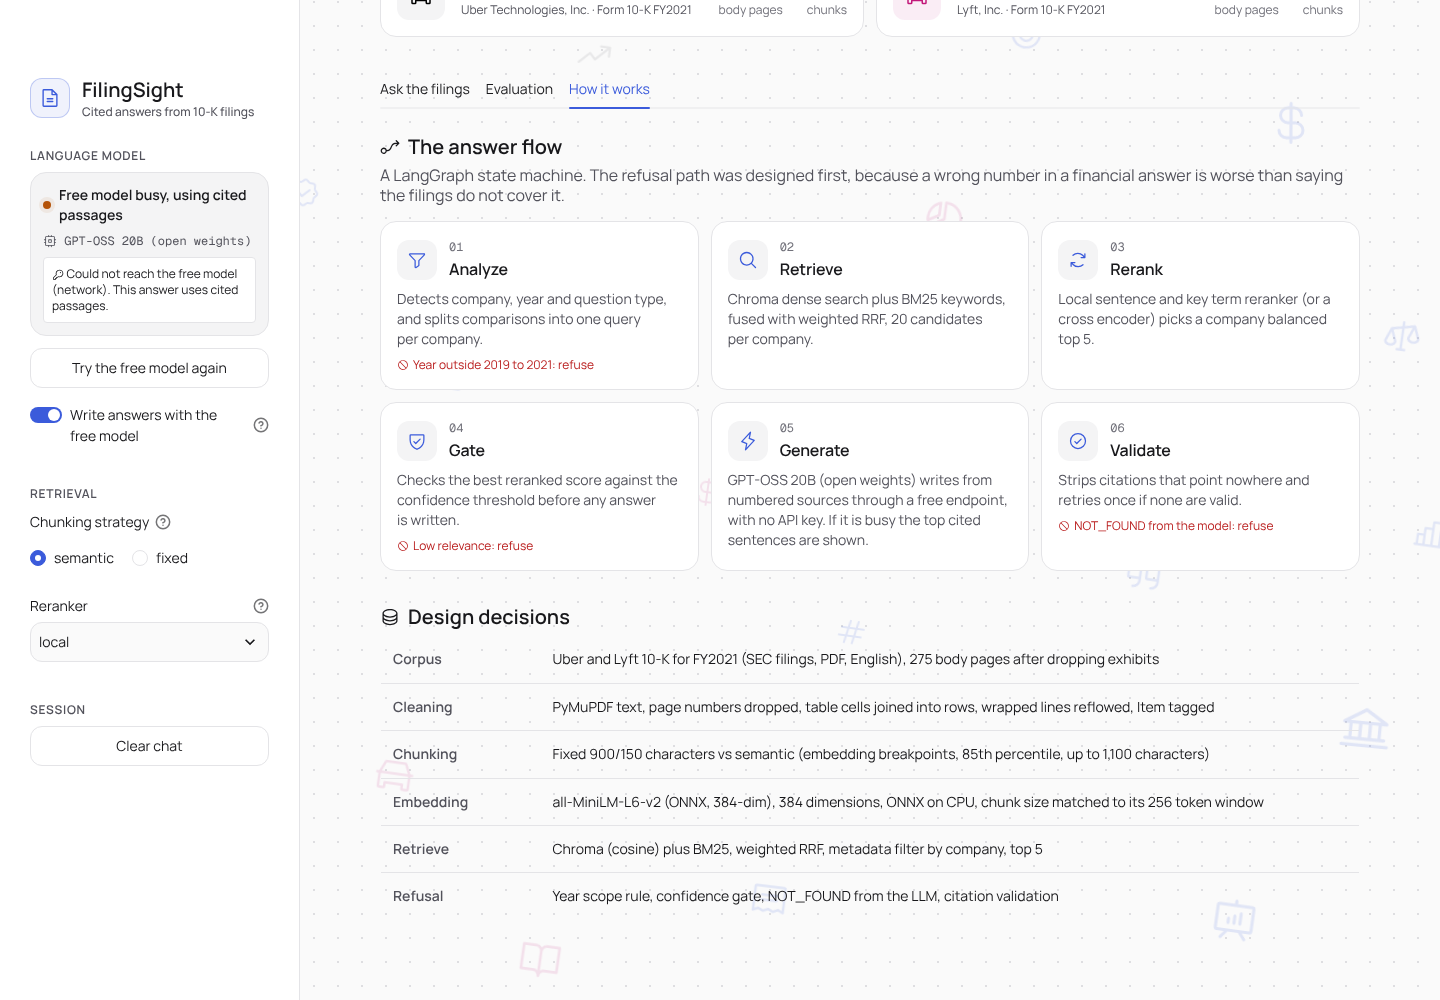
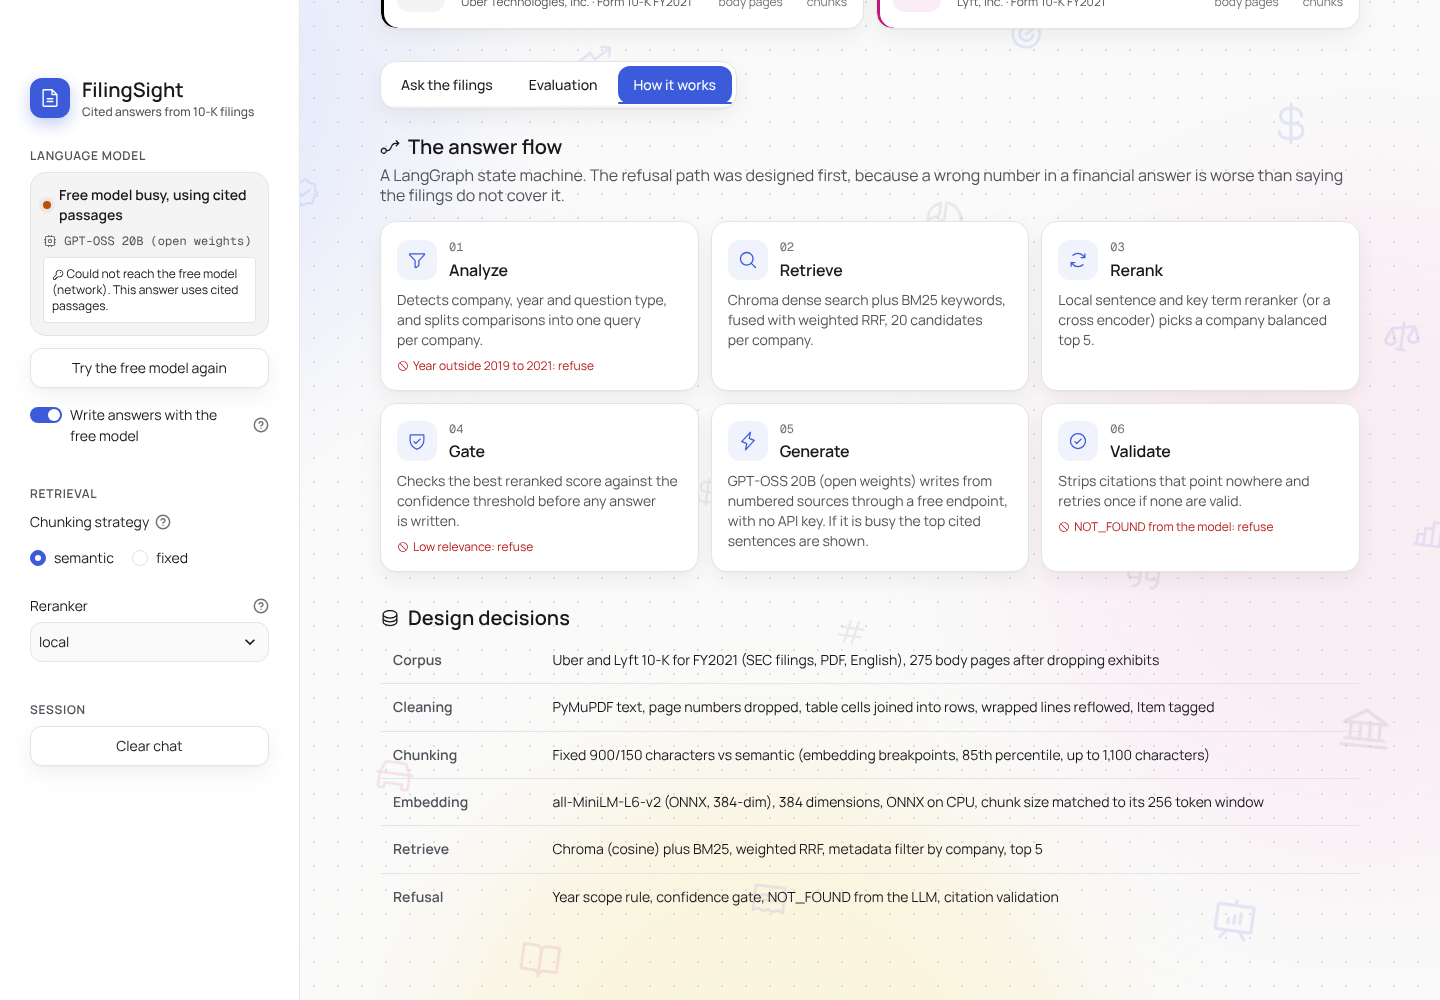
Richer look in the style of the DealRoom app: glows, hero card, shadows, pill tabs, coloured edges
Claude-Session: https://claude.ai/code/session_01JhjH9cxR2UcU4az5nLiXfC

diff --git a/app.py b/app.py
@@ -283,9 +283,51 @@ p, li{text-wrap:pretty;}
 [data-testid="stMain"] .block-container{position:relative; z-index:1;}
 [data-testid="stSidebar"]{z-index:2;}
 
+/* ---------- richer layer borrowed from the DealRoom app (same ai-design-skills tokens) ---------- */
+:root{--shadow:0 1px 2px rgba(24,24,27,.04), 0 8px 24px rgba(24,24,27,.06);
+  --shadow-lg:0 2px 4px rgba(24,24,27,.05), 0 18px 40px rgba(59,91,219,.14); --violet:#7C3AED; --amber:#E8A317;}
+/* soft colour glows behind everything (decoration layer, not a surface fill) */
+.bg-symbols .blob{position:absolute; width:46vmax; height:46vmax; border-radius:50%; filter:blur(80px); opacity:.35; animation:none;}
+.bg-symbols .b1{left:-16vmax; top:-18vmax; background:#C7D2FE;}
+.bg-symbols .b2{right:-18vmax; top:20vh; background:#FBCFE8; opacity:.28;}
+.bg-symbols .b3{left:30vw; bottom:-30vmax; background:#FDE68A; opacity:.25;}
+/* hero becomes one white card with a brand stripe on top */
+.hero-grid{background:rgba(255,255,255,.92); border:1px solid var(--line); border-radius:24px; padding:48px 40px; margin-bottom:24px;
+  box-shadow:var(--shadow); position:relative; overflow:hidden; animation:rise .7s var(--ease) both;}
+.hero-grid::before{content:""; position:absolute; inset:0 0 auto 0; height:4px; background:linear-gradient(90deg,var(--accent),var(--violet),var(--lyft));}
+.hero-grid .preview{background:var(--bg); box-shadow:var(--shadow-lg); transform:rotate(-1deg); transition:transform .5s var(--ease);}
+.hero-grid .preview:hover{transform:rotate(0deg) translateY(-4px);}
+.eyebrow{color:var(--accent) !important; background:var(--accent-soft) !important; border-color:rgba(59,91,219,.22) !important;
+  text-transform:uppercase; letter-spacing:.08em; font-size:12px; line-height:16px; font-weight:500;}
+.brand-mark{background:var(--accent) !important; color:#fff !important; box-shadow:0 6px 16px rgba(59,91,219,.3);}
+/* shadowed cards everywhere, lift on hover */
+.kpi, .co-card, .step, .src, .skel, [data-testid="stChatMessage"], [data-testid="stVegaLiteChart"], [data-testid="stExpander"] details{box-shadow:var(--shadow);}
+.kpi:hover, .co-card:hover, .step:hover{box-shadow:var(--shadow-lg); border-color:rgba(59,91,219,.35); transform:translateY(-3px);}
+.step{transition:transform .5s var(--ease), box-shadow .3s var(--ease), border-color .3s var(--ease);}
+.kpi-icon, .step-icon{background:var(--accent-soft);}
+.co-card.uber{box-shadow:inset 3px 0 0 var(--uber), var(--shadow);} .co-card.lyft{box-shadow:inset 3px 0 0 var(--lyft), var(--shadow);}
+.src{border-radius:12px; padding:16px;} .src.cited{box-shadow:inset 3px 0 0 var(--accent), var(--shadow);}
+/* tabs: segmented pill with a filled active tab */
+.stTabs [data-baseweb="tab-list"], [data-testid="stTabs"] [role="tablist"]{gap:4px; background:#fff; padding:4px; border-radius:16px;
+  border:1px solid var(--line); width:fit-content; max-width:100%; box-shadow:var(--shadow); overflow-x:auto; scrollbar-width:none;}
+.stTabs [data-baseweb="tab"], [data-testid="stTabs"] [role="tab"]{border-radius:12px; padding:8px 16px; height:auto; flex-shrink:0;
+  transition:background-color .3s var(--ease), color .3s var(--ease);}
+.stTabs [role="tab"] p{white-space:nowrap; font-weight:500;}
+.stTabs [aria-selected="true"], [data-testid="stTabs"] [role="tab"][aria-selected="true"]{background:var(--accent) !important;}
+.stTabs [aria-selected="true"] p{color:#fff !important;}
+.stTabs [data-baseweb="tab-highlight"], .stTabs [data-baseweb="tab-border"]{display:none;}
+/* buttons: soft shadow, accent lift */
+.stButton > button{box-shadow:var(--shadow); transition:background-color .3s var(--ease), border-color .3s var(--ease), color .3s var(--ease), transform .5s var(--ease), box-shadow .3s var(--ease);}
+.stButton > button:hover{box-shadow:var(--shadow-lg); color:var(--accent);}
+[class*="st-key-sample"] .stButton > button:hover{transform:translateY(-3px);}
+[data-testid="stChatInput"]{box-shadow:var(--shadow-lg); border-radius:16px;}
+@media (max-width:900px){.hero-grid{padding:32px 24px;} .hero-grid .preview{transform:none;}}
+.hero-grid > *{min-width:0;}
+@media (max-width:600px){.hero-grid{padding:24px 16px;} .hero h1 span{white-space:normal;}}
+
 @media (prefers-reduced-motion: reduce){
   *{animation:none !important; transition:opacity .2s linear !important;}
-  .kpi:hover, .co-card:hover, .tb-link:hover, .stButton > button:hover{transform:none;}
+  .kpi:hover, .co-card:hover, .step:hover, .tb-link:hover, .stButton > button:hover, .hero-grid .preview, .hero-grid .preview:hover{transform:none;}
   .tagline .w{opacity:1 !important; animation:none !important;}
   .bg-symbols .s{animation:none !important;}
 }
@@ -301,7 +343,7 @@ _SYMBOLS = [("chart-line-up", 6, 14, 56), ("currency-dollar", 88, 10, 48), ("fil
             ("magnifying-glass", 46, 30, 36), ("quotes", 78, 58, 40), ("book-open", 36, 96, 44), ("target", 70, 4, 36),
             ("database", 2, 52, 40), ("currency-dollar", 48, 50, 32), ("chart-bar", 98, 54, 36), ("seal-check", 20, 20, 32)]
 st.markdown(
-    '<div class="bg-symbols" aria-hidden="true">' + "".join(
+    '<div class="bg-symbols" aria-hidden="true"><div class="blob b1"></div><div class="blob b2"></div><div class="blob b3"></div>' + "".join(
         f'<span class="s" style="left:{x}%;top:{y}%;animation-delay:-{i * 0.8:.1f}s">{icon(n, size)}</span>'
         for i, (n, x, y, size) in enumerate(_SYMBOLS)) + "</div>",
     unsafe_allow_html=True,

diff --git a/docs/DESIGN.md b/docs/DESIGN.md
@@ -24,4 +24,4 @@ Both skills are vendored in [`.claude/skills/`](../.claude/skills/) so any AI co
 | figma-designer | Two-layer colour tokens: Core Colors, then a Color System that aliases them, light mode mirrored from the dark reference | `:root` defines `--grayscale-*`, `--primary-*` (Core) and `--surface-*`, `--border-*`, `--text-*` (Color System) |
 | figma-designer | Spacing and radius token scales | Same values as B2 and B3 above |
 
-Decorative finance symbols (charts, dollar, percent, bank, receipt) float behind the content at about 10% opacity. They are `aria-hidden`, ignore pointer events, and stop moving under reduced motion.
+Decorative finance symbols (charts, dollar, percent, bank, receipt) and three blurred colour glows (indigo, pink, amber) sit behind the content in a fixed decoration layer, matching the Team 24 DealRoom app. Card surfaces stay flat white; depth comes from a two-step shadow token (`--shadow`, `--shadow-lg`), the hero is one white card with a 4 px brand stripe, tabs are a segmented pill, and Uber, Lyft and cited sources get a 3 px coloured left edge. The symbols float at about 10% opacity. They are `aria-hidden`, ignore pointer events, and stop moving under reduced motion.
